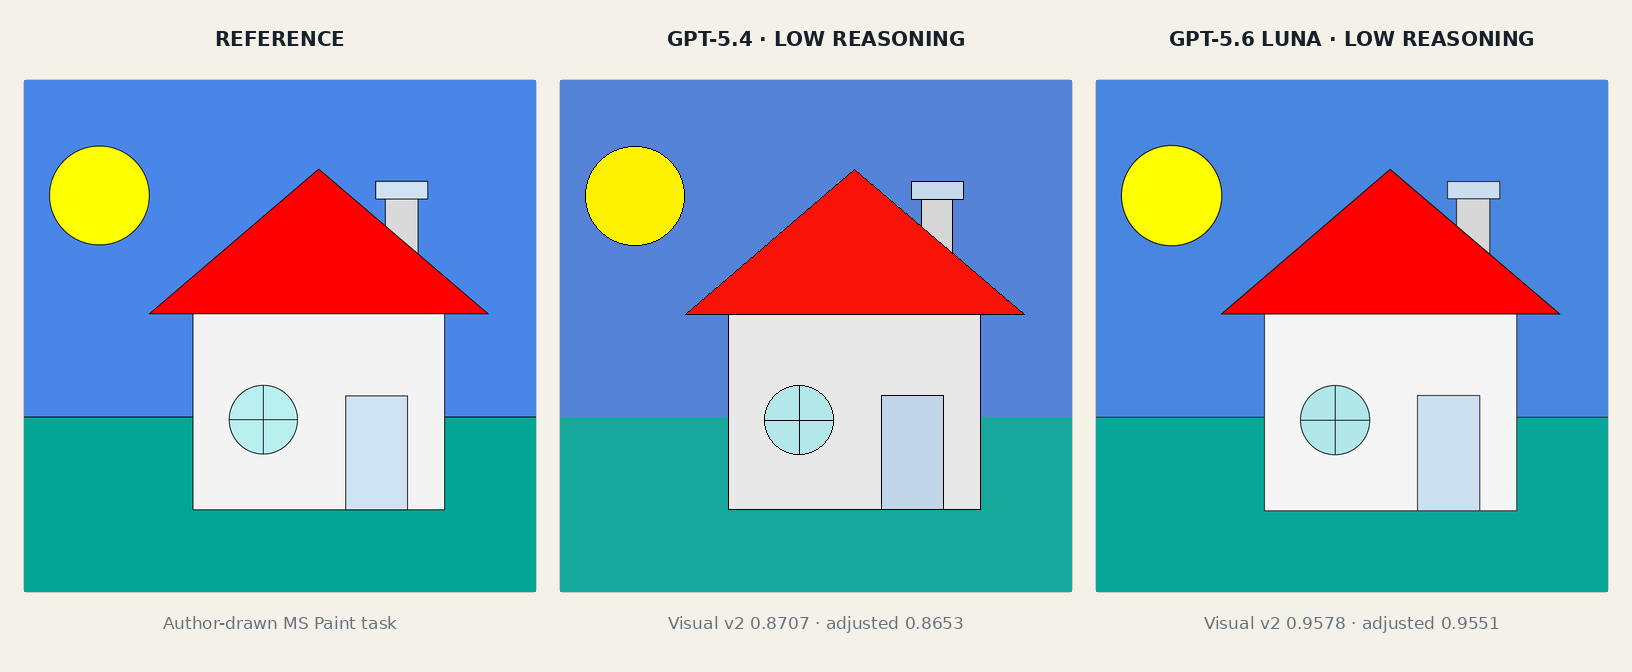
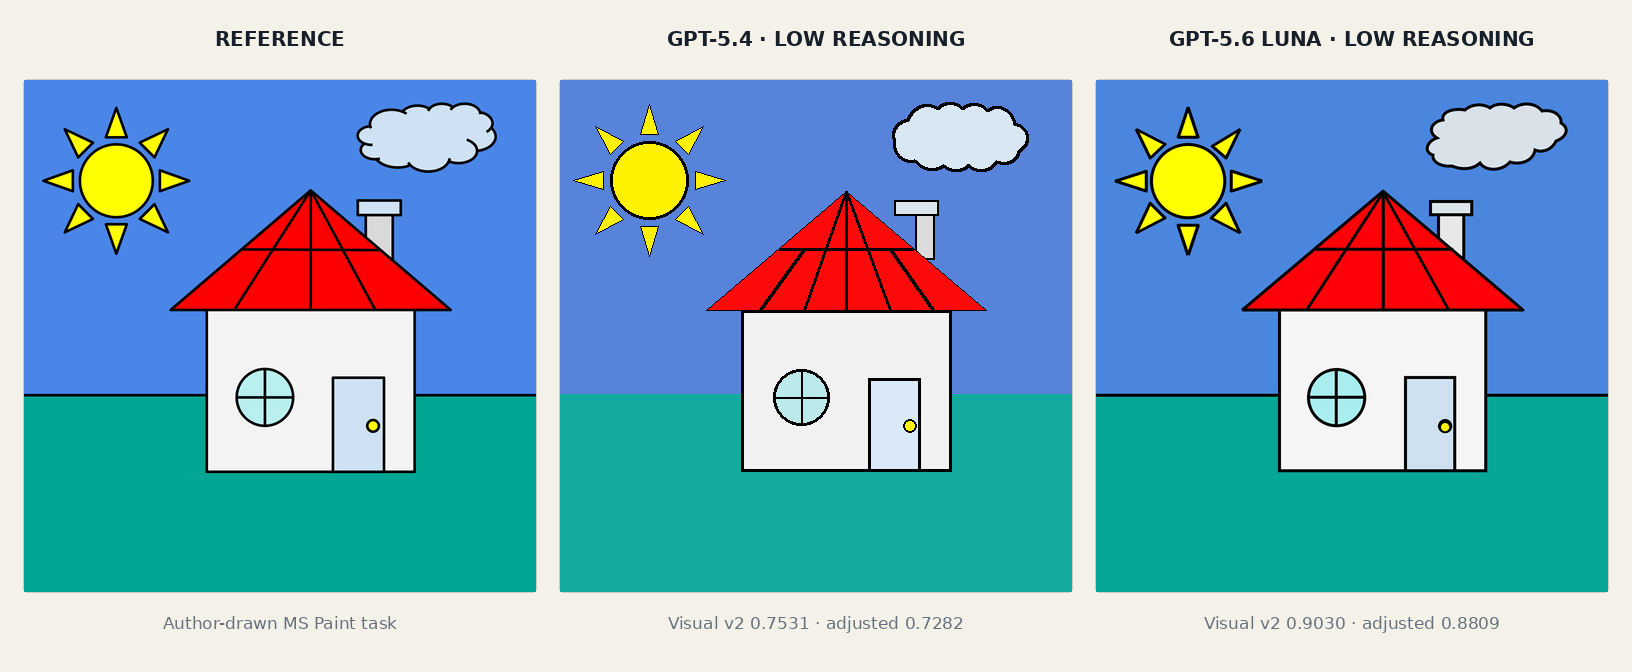
Use cloud house for model comparison

diff --git a/scripts/build_readme_comparison.py b/scripts/build_readme_comparison.py
@@ -46,8 +46,8 @@ def build(reference: Path, gpt54: Path, luna: Path, output: Path) -> None:
     panels = (_load_panel(reference), _load_panel(gpt54), _load_panel(luna))
     footers = (
         "Author-drawn MS Paint task",
-        "Visual v2 0.8707 · adjusted 0.8653",
-        "Visual v2 0.9578 · adjusted 0.9551",
+        "Visual v2 0.7531 · adjusted 0.7282",
+        "Visual v2 0.9030 · adjusted 0.8809",
     )
 
     for index, (heading, panel, footer) in enumerate(zip(headings, panels, footers, strict=True)):

diff --git a/docs/assets/README.md b/docs/assets/README.md
@@ -1,9 +1,9 @@
 # Documentation assets
 
-`house-model-comparison.png` was generated by `scripts/build_readme_comparison.py` from an author-drawn MS Paint reference and fresh MimesisGym evaluation results recorded on 2026-08-28.
+`house-model-comparison.png` was generated by `scripts/build_readme_comparison.py` from the author-drawn MS Paint house-with-clouds reference and fresh MimesisGym evaluation results recorded on 2026-08-28.
 
-- GPT-5.4 ran through OpenAI Responses with low reasoning. It submitted in six turns with visual v2 reward 0.8707263114 and adjusted reward 0.8653263114.
-- GPT-5.6 Luna ran through OpenAI Responses with low reasoning. It submitted in four turns with visual v2 reward 0.9577584298 and adjusted reward 0.9551384298.
+- GPT-5.4 ran through OpenAI Responses with low reasoning. It submitted in five turns with visual v2 reward 0.7531170646 and adjusted reward 0.7282170646.
+- GPT-5.6 Luna ran through OpenAI Responses with low reasoning. It submitted in five turns with visual v2 reward 0.9030451288 and adjusted reward 0.8809451288.
 - Both episodes used independent contexts, offline containers, and the same default limits.
 
 The comparison asset is included under the repository's Apache-2.0 license. Raw API traces, credentials, and ignored run directories are not part of the public documentation.

diff --git a/README.md b/README.md
@@ -4,9 +4,9 @@
 
 MimesisGym is a benchmark for multimodal agents that reconstruct visual references with code. The model sees an image, works inside an isolated sandbox, and submits its own rendering. The result is measured against the original for literal spatial accuracy.
 
-![A house reference beside low-reasoning results from GPT-5.4 and GPT-5.6 Luna](docs/assets/house-model-comparison.png)
+![A house-with-clouds reference beside low-reasoning results from GPT-5.4 and GPT-5.6 Luna](docs/assets/house-model-comparison.png)
 
-<p align="center"><sub>Same 512×512 MS Paint reference, fresh contexts, identical limits, and low reasoning. GPT-5.4 submitted in six turns and scored 0.8707; GPT-5.6 Luna submitted in four turns and scored 0.9578. Both runs used the OpenAI Responses API.</sub></p>
+<p align="center"><sub>Same 512×512 MS Paint house-with-clouds reference, fresh contexts, identical limits, and low reasoning. Both models submitted in five turns: GPT-5.4 scored 0.7531 and GPT-5.6 Luna scored 0.9030. Both runs used the OpenAI Responses API.</sub></p>
 
 Recognizing “a house” is easy. Reconstructing the exact roof angle, window position, background boundary, colors, and layer order is not. MimesisGym makes that gap visible—and measurable.
 
